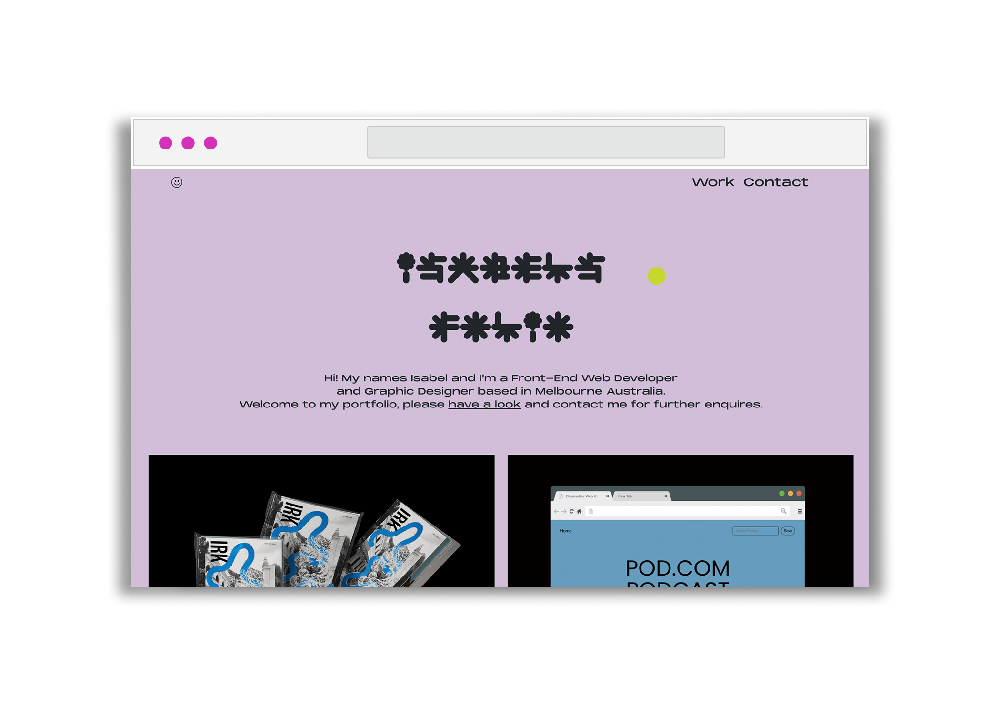
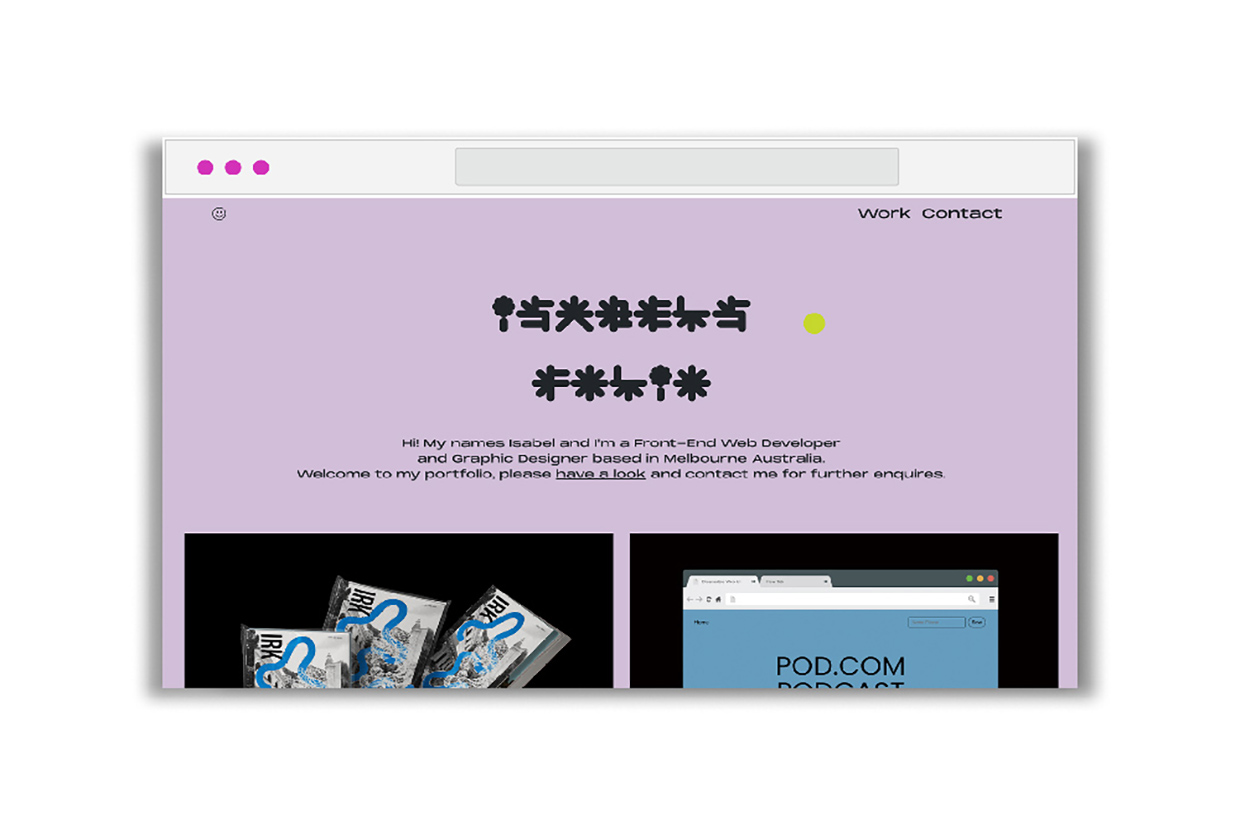
site updates

diff --git a/client/src/components/pages/Home.jsx b/client/src/components/pages/Home.jsx
@@ -16,9 +16,8 @@ function Home() {
         <div className="studio-text">
             Isabels<br></br>Folio
         </div>
-        <div className="paragraph-text" colSpan="5"> Hi! My names Isabel and I'm a Front-End Web Developer<br></br> and Graphic Designer based in Melbourne Australia. <br></br>
-      Welcome to my portfolio, please <Link to="work"><u>have a look</u></Link> and contact me for further enquires.
-
+        <div className="paragraph-text" colSpan="5"> Hi! My names Isabel/Izzy and I'm a Front-End Web Developer<br></br> and Graphic Designer based in Melbourne Australia. <br></br>
+      Welcome to my portfolio, please take a look below for examples of some of my student and freelance work. You can also check out my <a href="https://codepen.io/isabel-donnelly/" target='_blank'>codepen</a> for examples of the type of work I do in my current role as an E-learning Producer. Feel free to <Link to="contact"><u>contact me</u></Link> if you have any further enquiries.
       </div>
   </div>
 
@@ -29,8 +28,8 @@ function Home() {
                     <img className="work-image" src={irk} alt="my project"/>  
                         <h3>IRK Magazine</h3>
                          <p>
-                            Magazine cover and editorial design/concept by me. The brief here was to create an "unconventional travel" issue, so for the cover I cut up and 
-                            scanned in images I had taken in places like Poland and Slovenia. To create this I used Indesign, Illustrator and Photoshop</p>                  
+                            Magazine cover and editorial design/concept by me. I completed this project when I was a student at Shillington College. The brief was to create an "unconventional travel" issue, so for the cover I cut up and 
+                            scanned in images I had taken in places like Poland and Slovenia. To create this I used Indesign, Illustrator and Photoshop.</p>                  
                          <div className="card-buttons">
                              <Link to="/work/irk">
                                 <Button variant="outline-dark">View Project</Button>
